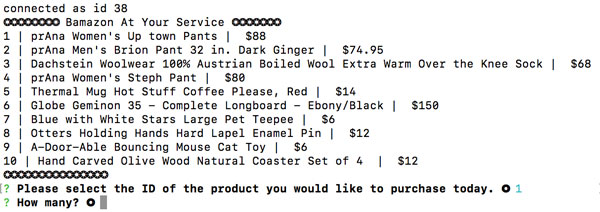
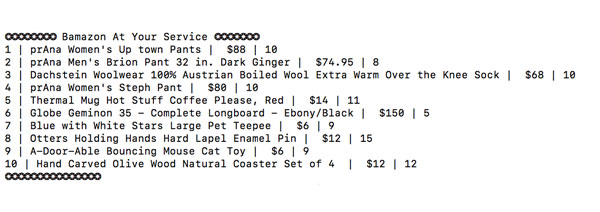
stock

Changed region(s): [[0.0, 0.0849, 0.99, 0.9906], [0.0, 0.0, 0.21, 0.0566]]

diff --git a/bamazonCustomer.js b/bamazonCustomer.js
@@ -26,7 +26,7 @@ var printTable = function() {
   connection.query('SELECT * FROM products', function(err, res) {
       console.log("❂❂❂❂❂❂❂❂ Bamazon At Your Service ❂❂❂❂❂❂❂");
       for (var i = 0; i < res.length; i++) {
-          console.log(res[i].item_id + " | " + res[i].product_name + " |  $" + res[i].price + "")
+          console.log(res[i].item_id + " | " + res[i].product_name + " |  $" + res[i].price + " | " + res[i].stock_quantity + "")
       }
       console.log("❂❂❂❂❂❂❂❂❂❂❂❂❂❂❂");
       questions();

diff --git a/README.md b/README.md
@@ -1,35 +1,31 @@
 # bamazon
 Running this application will first display all of the items available for sale.
 
-##Include the ids, names, and prices of products for sale.
+##Include the ids, names, and prices of products for sale. (Included is the stock item "Quantity" at the end)
+<a href="/akt12345/bamazon/blob/master/assets/images/1.jpg" target="_blank"><img src="https://github.com/akt12345/bamazon/blob/master/assets/images/1.jpg" alt="Bamazon" style="max-width:100%;"></a>
 
 
-
-<a href="/akt12345/bamazon/blob/master/assets/images/1.jpg" target="_blank"><img src="/akt12345/bamazon/blob/master/assets/images/1.jpg" alt="Bamazon" style="max-width:100%;"></a>
-
-
-##The app should then prompt users with two messages.
+## The app should then prompt users with two messages.
 The first should ask them the ID of the product they would like to buy.
 The second message should ask how many units of the product they would like to buy.
+<a href="/akt12345/bamazon/blob/master/assets/images/2.jpg" target="_blank"><img src="https://github.com/akt12345/bamazon/blob/master/assets/images/2.jpg" alt="Bamazon" style="max-width:100%;"></a>
 
 
-Once the customer has placed the order, your application should check if your store has enough of the product to meet the customer's request.
+## Once the customer has placed the order, your application should check if your store has enough of the product to meet the customer's request.
+If not, the app should log a phrase like `Insufficient quantity!`,and then prevent the order from going through.
+<a href="/akt12345/bamazon/blob/master/assets/images/3.jpg" target="_blank"><img src="https://github.com/akt12345/bamazon/blob/master/assets/images/3.jpg" alt="Bamazon" style="max-width:100%;"></a>
 
-If not, the app should log a phrase like `Insufficient quantity!`,
-and then prevent the order from going through.
 
 ## However, if your store _does_ have enough of the product, you should fulfill the customer's order.
 This means updating the SQL database to reflect the remaining quantity.
-Once the update goes through, show the customer the total cost of their purchase.
 
 
-
-
-
-
-##Technologies Used:
+## Technologies Used:
 mySQL
 JavaScript
 nodeJS
 npm packages: mySQL and inquirer
+
+## Author
+Abby Thoresen copyright 2018
 
